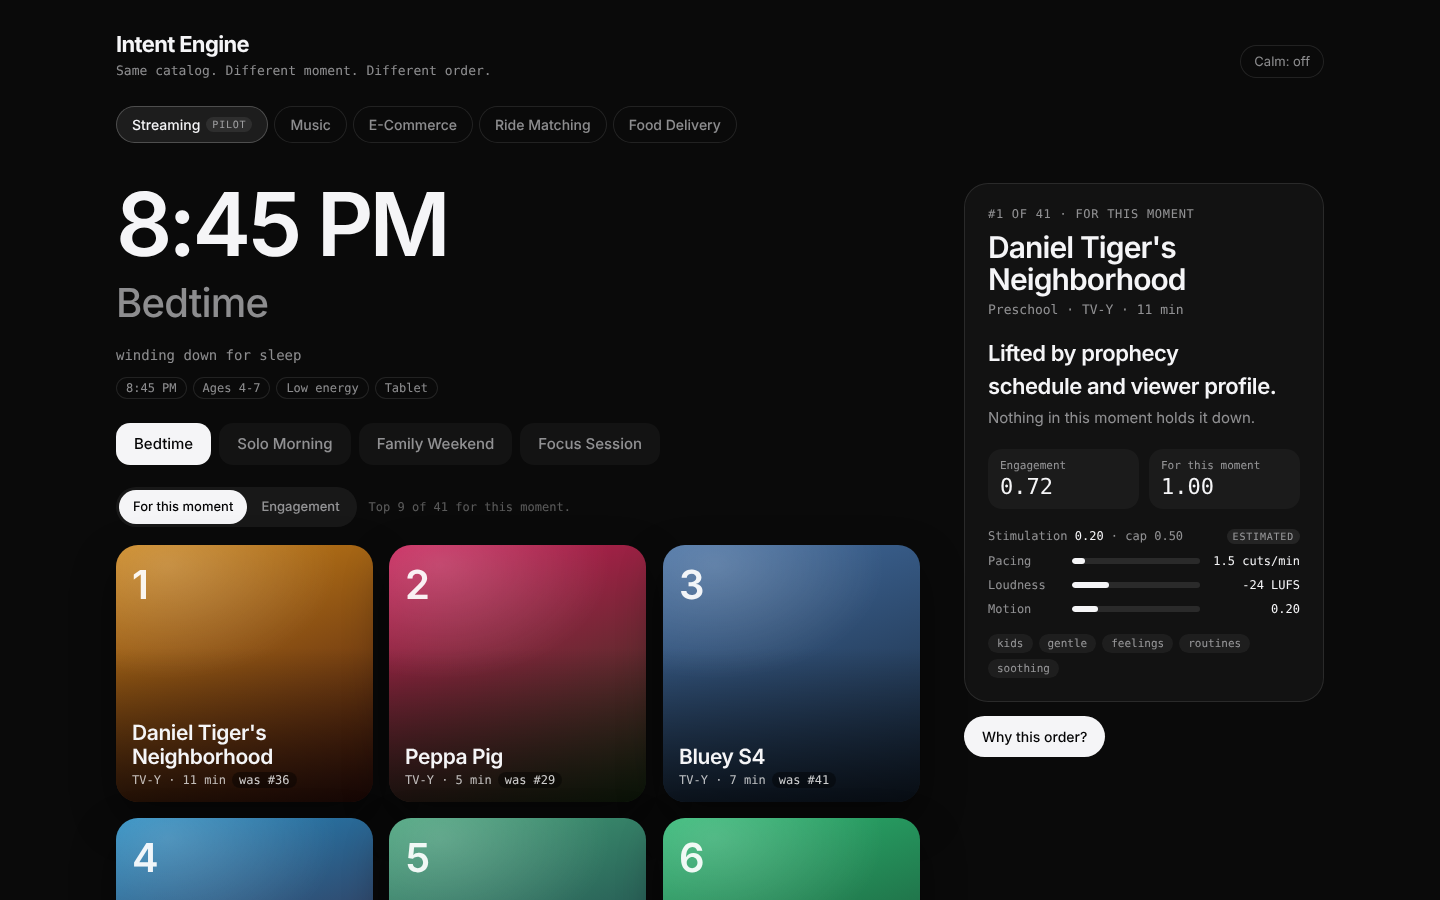
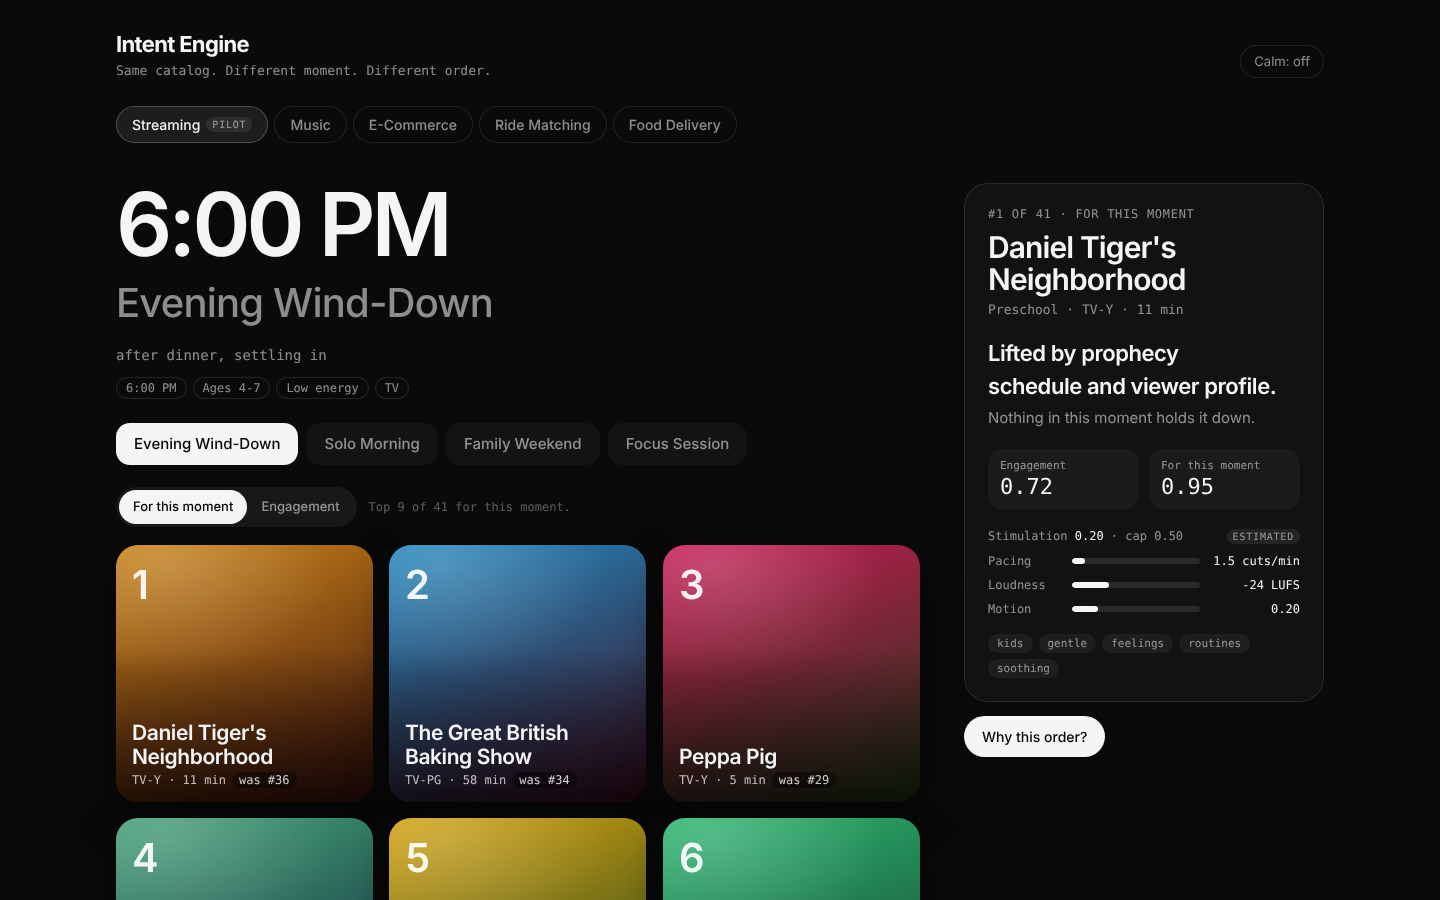
feat(demo): Bedtime becomes a 6 PM Evening Wind-Down
Kids rarely fall asleep to streaming, so the wind-down moment moves to
6:00 PM on the family TV. The time signal moves to Evening and the
device to TV so the label and the math agree. The stimulation gate is
driven by energy, not the clock, so SpongeBob is still held back; the
top 9 is the same set of calm picks, slightly reordered.

Also refreshes the README GIF, screenshot, and wording, and the film
reference. Internal context key stays 'bedtime'.

Claude-Session: https://claude.ai/code/session_01P9zeRs27JYySnGBLK1Weiw

diff --git a/docs/design/bedtime-film.html b/docs/design/bedtime-film.html
@@ -103,11 +103,11 @@ body.record .frame { width: 1080px; border-radius: 0; box-shadow: none; }
 }
 </style>
 
-<div class="frame" id="frame" role="img" aria-label="Concept animation. At 8:45 PM bedtime, a row of titles ranked by engagement re-ranks for bedtime. A thriller and two intense titles are held back, including a TV-Y show whose pacing, loudness, and motion are over the bedtime cap. Bluey S4 rises to first with the reason calm, short, familiar.">
+<div class="frame" id="frame" role="img" aria-label="Concept animation. At a 6:00 PM evening wind-down, a row of titles ranked by engagement re-ranks for winding down. A thriller and two intense titles are held back, including a TV-Y show whose pacing, loudness, and motion are over the bedtime cap. Bluey S4 rises to first with the reason calm, short, familiar.">
   <div id="stage">
     <div id="world"></div>
-    <div id="clock" class="fade">8:45 PM</div>
-    <div id="moment" class="fade">Bedtime</div>
+    <div id="clock" class="fade">6:00 PM</div>
+    <div id="moment" class="fade">Evening Wind-Down</div>
     <div id="label" class="fade"></div>
     <div id="caption" class="fade"></div>
     <div id="meters" class="fade">
@@ -130,7 +130,7 @@ body.record .frame { width: 1080px; border-radius: 0; box-shadow: none; }
 </div>
 
 <script>
-// Titles, engagement scores, and stimulation data mirror the live /demo (Streaming, Bedtime).
+// Titles, engagement scores, and stimulation data mirror the live /demo (Streaming, Evening Wind-Down).
 const TITLES = [
   { id: 'dark',    name: 'Dark Season 3',       meta: 'TV-MA · 52 min', tone: 'linear-gradient(160deg,#1d3b44,#0b1417)', held: 'TV-MA' },
   { id: 'sensory', name: 'Sensory Rush Rhymes', meta: 'TV-Y · 8 min',   tone: 'linear-gradient(160deg,#ff5e8a,#ff9a3c 55%,#ffd23f)', held: 'High stim' },
@@ -206,7 +206,7 @@ async function play() {
     await at(4400);  on('label', false);
     await at(4700);  layout(BEDTIME, true);
                      ['dark', 'sensory', 'incep'].forEach((id) => tiles[id].classList.add('held'));
-                     $('label').innerHTML = 'Ranked for <b>bedtime</b>'; on('label');
+                     $('label').innerHTML = 'Ranked for <b>winding down</b>'; on('label');
     await at(6900);  stage.classList.add('focus'); camera('sensory', 1.75, 560); tiles.sensory.classList.add('lit');
                      $('caption').innerHTML = 'Rated TV-Y.<span>Too intense for tonight.</span>'; on('caption');
     await at(7700);  on('meters'); document.querySelectorAll('.fill').forEach((f) => (f.style.width = f.dataset.to + '%'));

diff --git a/frontend/src/data/demoPlatforms.ts b/frontend/src/data/demoPlatforms.ts
@@ -458,13 +458,13 @@ const foodDeliveryCatalog: PlatformItem[] = [
 
 const streamingContexts: Record<string, PlatformContext> = {
   bedtime: {
-    key: 'bedtime', label: 'Bedtime', emoji: '🌙',
-    subtitle: '8:45 PM — winding down for sleep',
+    key: 'bedtime', label: 'Evening Wind-Down', emoji: '🌙',
+    subtitle: '6:00 PM — after dinner, settling in',
     signals: [
-      { emoji: '🕐', label: '8:45 PM' }, { emoji: '👶', label: 'Ages 4-7' },
-      { emoji: '😴', label: 'Low energy' }, { emoji: '📱', label: 'Tablet' },
+      { emoji: '🕐', label: '6:00 PM' }, { emoji: '👶', label: 'Ages 4-7' },
+      { emoji: '😴', label: 'Low energy' }, { emoji: '📺', label: 'TV' },
     ],
-    defaults: { time: 1.0, viewer: 0.0, energy: 0.0, device: 0.25, prophecy: 0.8 },
+    defaults: { time: 0.75, viewer: 0.0, energy: 0.0, device: 0.75, prophecy: 0.8 },
   },
   'solo-morning': {
     key: 'solo-morning', label: 'Solo Morning', emoji: '☕',

diff --git a/frontend/src/components/demo/ProphecyAgent.tsx b/frontend/src/components/demo/ProphecyAgent.tsx
@@ -40,7 +40,7 @@ export default function ProphecyAgent({ prophecyValue }: ProphecyAgentProps) {
         </span>
       </div>
       <p className="font-dm-mono text-[10px] text-orange-300/50 mt-1.5 leading-relaxed">
-        Auto-switch scheduled for 9:00 PM daily.
+        Wind-down auto-switch scheduled for 6:00 PM daily.
         <br />
         Next trigger in <span className="text-orange-300/80">{minutesLeft} min</span>.
       </p>

diff --git a/README.md b/README.md
@@ -2,7 +2,7 @@
 
 **A deterministic re-ranking layer that adapts recommendations to the moment (who's watching, time of day, parent-set intent), with every ranking explained.**
 
-![Intent Engine demo: bedtime picks, a solo adult morning, and SpongeBob held back for high stimulation](docs/screenshots/demo.gif)
+![Intent Engine demo: evening wind-down picks, a solo adult morning, and SpongeBob held back for high stimulation](docs/screenshots/demo.gif)
 
 **Try the demo:** https://intentengine.vercel.app/demo
 
@@ -14,7 +14,7 @@ First commit: February 2026.
 
 ## Why I Built This
 
-As a parent, I spend real time every day filtering kids' content by hand, because streaming recommendations optimize for engagement rather than the intent I have in the moment ("it's bedtime," "keep it calm"). My take as an engineer is that this belongs in a deterministic, explainable re-ranking layer instead of a model you can't inspect: the same context should always produce the same, traceable ordering, and every score should break down into signals a person can read. This repo is where I test that idea across more than one domain.
+As a parent, I spend real time every day filtering kids' content by hand, because streaming recommendations optimize for engagement rather than the intent I have in the moment ("it's time to wind down," "keep it calm"). My take as an engineer is that this belongs in a deterministic, explainable re-ranking layer instead of a model you can't inspect: the same context should always produce the same, traceable ordering, and every score should break down into signals a person can read. This repo is where I test that idea across more than one domain.
 
 ## Live Demo
 
@@ -28,7 +28,7 @@ As a parent, I spend real time every day filtering kids' content by hand, becaus
 
 **Problem:** Parents spend ~10 min/day manually filtering content. Streaming recommendations optimize for engagement, not parental intent.
 
-**Solution:** A re-ranking layer that sits between retrieval and presentation. Parents express context once ("it's bedtime"), and the system adapts deterministically and explainably, with no ML required.
+**Solution:** A re-ranking layer that sits between retrieval and presentation. Parents express context once ("it's time to wind down"), and the system adapts deterministically and explainably, with no ML required.
 
 **Key capabilities:**
 - Rules-first intent translation (keyword mapping, time-of-day inference)
@@ -67,11 +67,11 @@ The `/demo` page is an interactive demo showing the engine's re-ranking behavior
 | Feature | Description |
 |---------|-------------|
 | **Platform Tabs** | Switch between 5 verticals (Streaming, Music, E-Commerce, Ride Matching, Food Delivery), 8 items each. Streaming carries a `PILOT` badge in the UI |
-| **Context Presets** | 4 presets per platform (e.g., Bedtime, Solo Morning, Family Weekend, Focus Session) |
+| **Context Presets** | 4 presets per platform (e.g., Evening Wind-Down, Solo Morning, Family Weekend, Focus Session) |
 | **Signal Sliders** | 5 tweakable signals: Time of Day, Viewer Profile, Energy Intent, Device, Prophecy Schedule |
 | **Before / After** | Side-by-side view showing engagement-only vs. intent-adjusted ranking |
 | **Scoring Formula** | Live code-style display showing the multiplier breakdown for any item |
-| [**Stimulation Index**](docs/stimulation_filtering_plan.md) | Scores pacing (cuts/min), loudness (LUFS), and motion per title. Values in the demo are estimated. At bedtime, a hard gate holds back over-stimulating titles even when the age rating is fine. |
+| [**Stimulation Index**](docs/stimulation_filtering_plan.md) | Scores pacing (cuts/min), loudness (LUFS), and motion per title. Values in the demo are estimated. During a wind-down, a hard gate holds back over-stimulating titles even when the age rating is fine. |
 | **Prophecy Agent** | Mock scheduling indicator with countdown timer |
 
 ### Per-Vertical Status
@@ -109,7 +109,7 @@ if (maturity === "adult" && viewer === "kids") → BLOCKED (score = 0)
 
 | Screen | Description |
 |--------|-------------|
-| ![Intent Engine demo: bedtime picks, a solo adult morning, and SpongeBob held back for high stimulation](docs/screenshots/demo.gif) | Multi-platform demo with signal sliders and before/after ranking |
+| ![Intent Engine demo: evening wind-down picks, a solo adult morning, and SpongeBob held back for high stimulation](docs/screenshots/demo.gif) | Multi-platform demo with signal sliders and before/after ranking |
 | ![Scoring Formula](docs/screenshots/08-scoring-formula.png) | Live multiplier breakdown for a selected item |
 | ![Platform Switch](docs/screenshots/09-platform-music.png) | Music platform with wind-down context |
 
@@ -325,8 +325,8 @@ suggestion = agent.should_suggest_intent_shift(datetime(2026, 2, 20, 19, 50))
 
 ### Interactive Demo (`/demo`)
 
-![Intent Engine demo: bedtime picks, a solo adult morning, and SpongeBob held back for high stimulation](docs/screenshots/demo.gif)
-**Re-Ranking Demo (Streaming / Bedtime).** Same 8-item catalog, two columns: engagement-only (left) vs. intent-adjusted (right). At bedtime with a kids viewer profile, Bluey S4 jumps from #8 to #1 (+7 positions). Dark Season 3 (TV-MA) drops to the bottom; the viewer multiplier gates adult content without hard-filtering it. The right panel has 5 signal sliders that update rankings live: drag any slider and the items re-sort. The scoring formula box shows the multiplier math for the #1 item.
+![Intent Engine demo: evening wind-down picks, a solo adult morning, and SpongeBob held back for high stimulation](docs/screenshots/demo.gif)
+**Re-Ranking Demo (Streaming / Evening Wind-Down).** A 41-title catalog ranked for 6:00 PM with a kids viewer profile and low energy. The top 9 are calm kids and family picks; titles over the maturity or stimulation gate sit in a held-back row. SpongeBob (TV-Y7) is held back on stimulation even though its rating is fine. Toggle to Engagement to see what an engagement-only feed would show, tap any title for its reason and meters, and open "Why this order?" for the signal sliders and scoring formula.
 
 ![Scoring Formula](docs/screenshots/08-scoring-formula.png)
 **Scoring Formula.** Every ranking decision breaks down into its parts. For Bluey S4: `base(0.58) x time(0.91) x viewer(1.20) x energy(0.90) x device(1.10) x prophecy(1.32) = 0.83`. Each multiplier maps to a single signal slider, so an engineer can trace any ranking anomaly back to the signal that caused it. That keeps debugging the ranking tractable.
